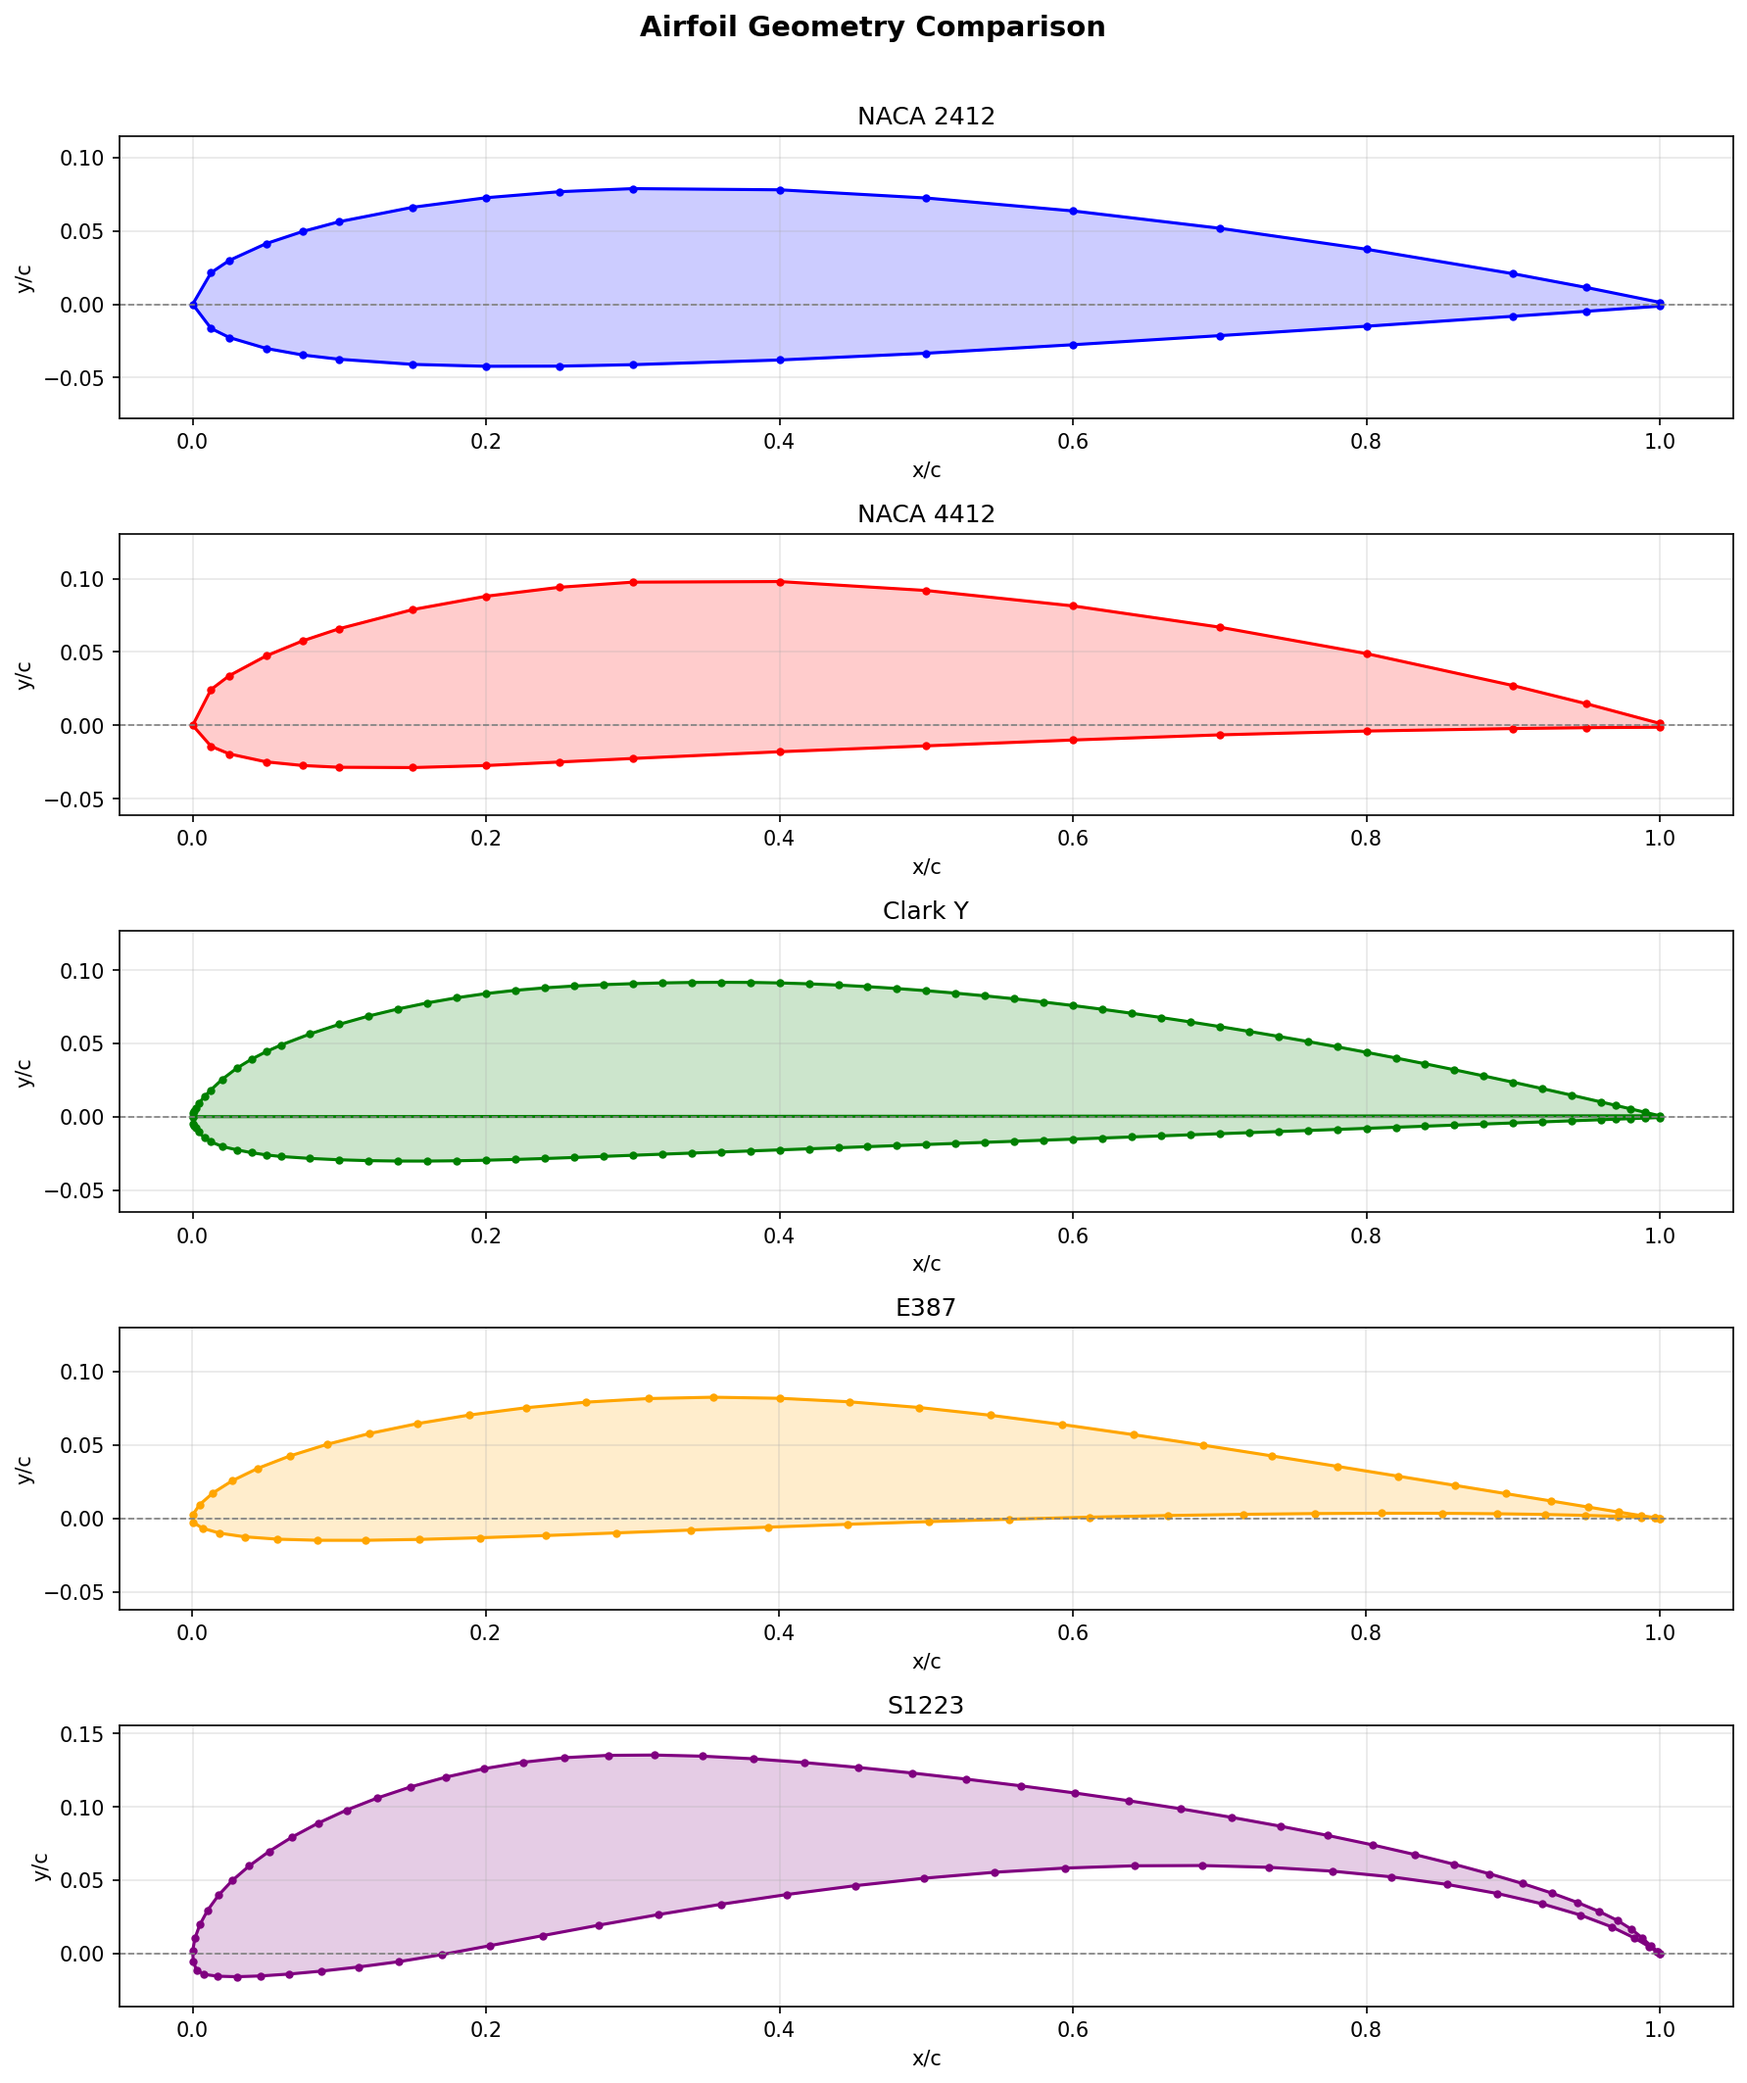
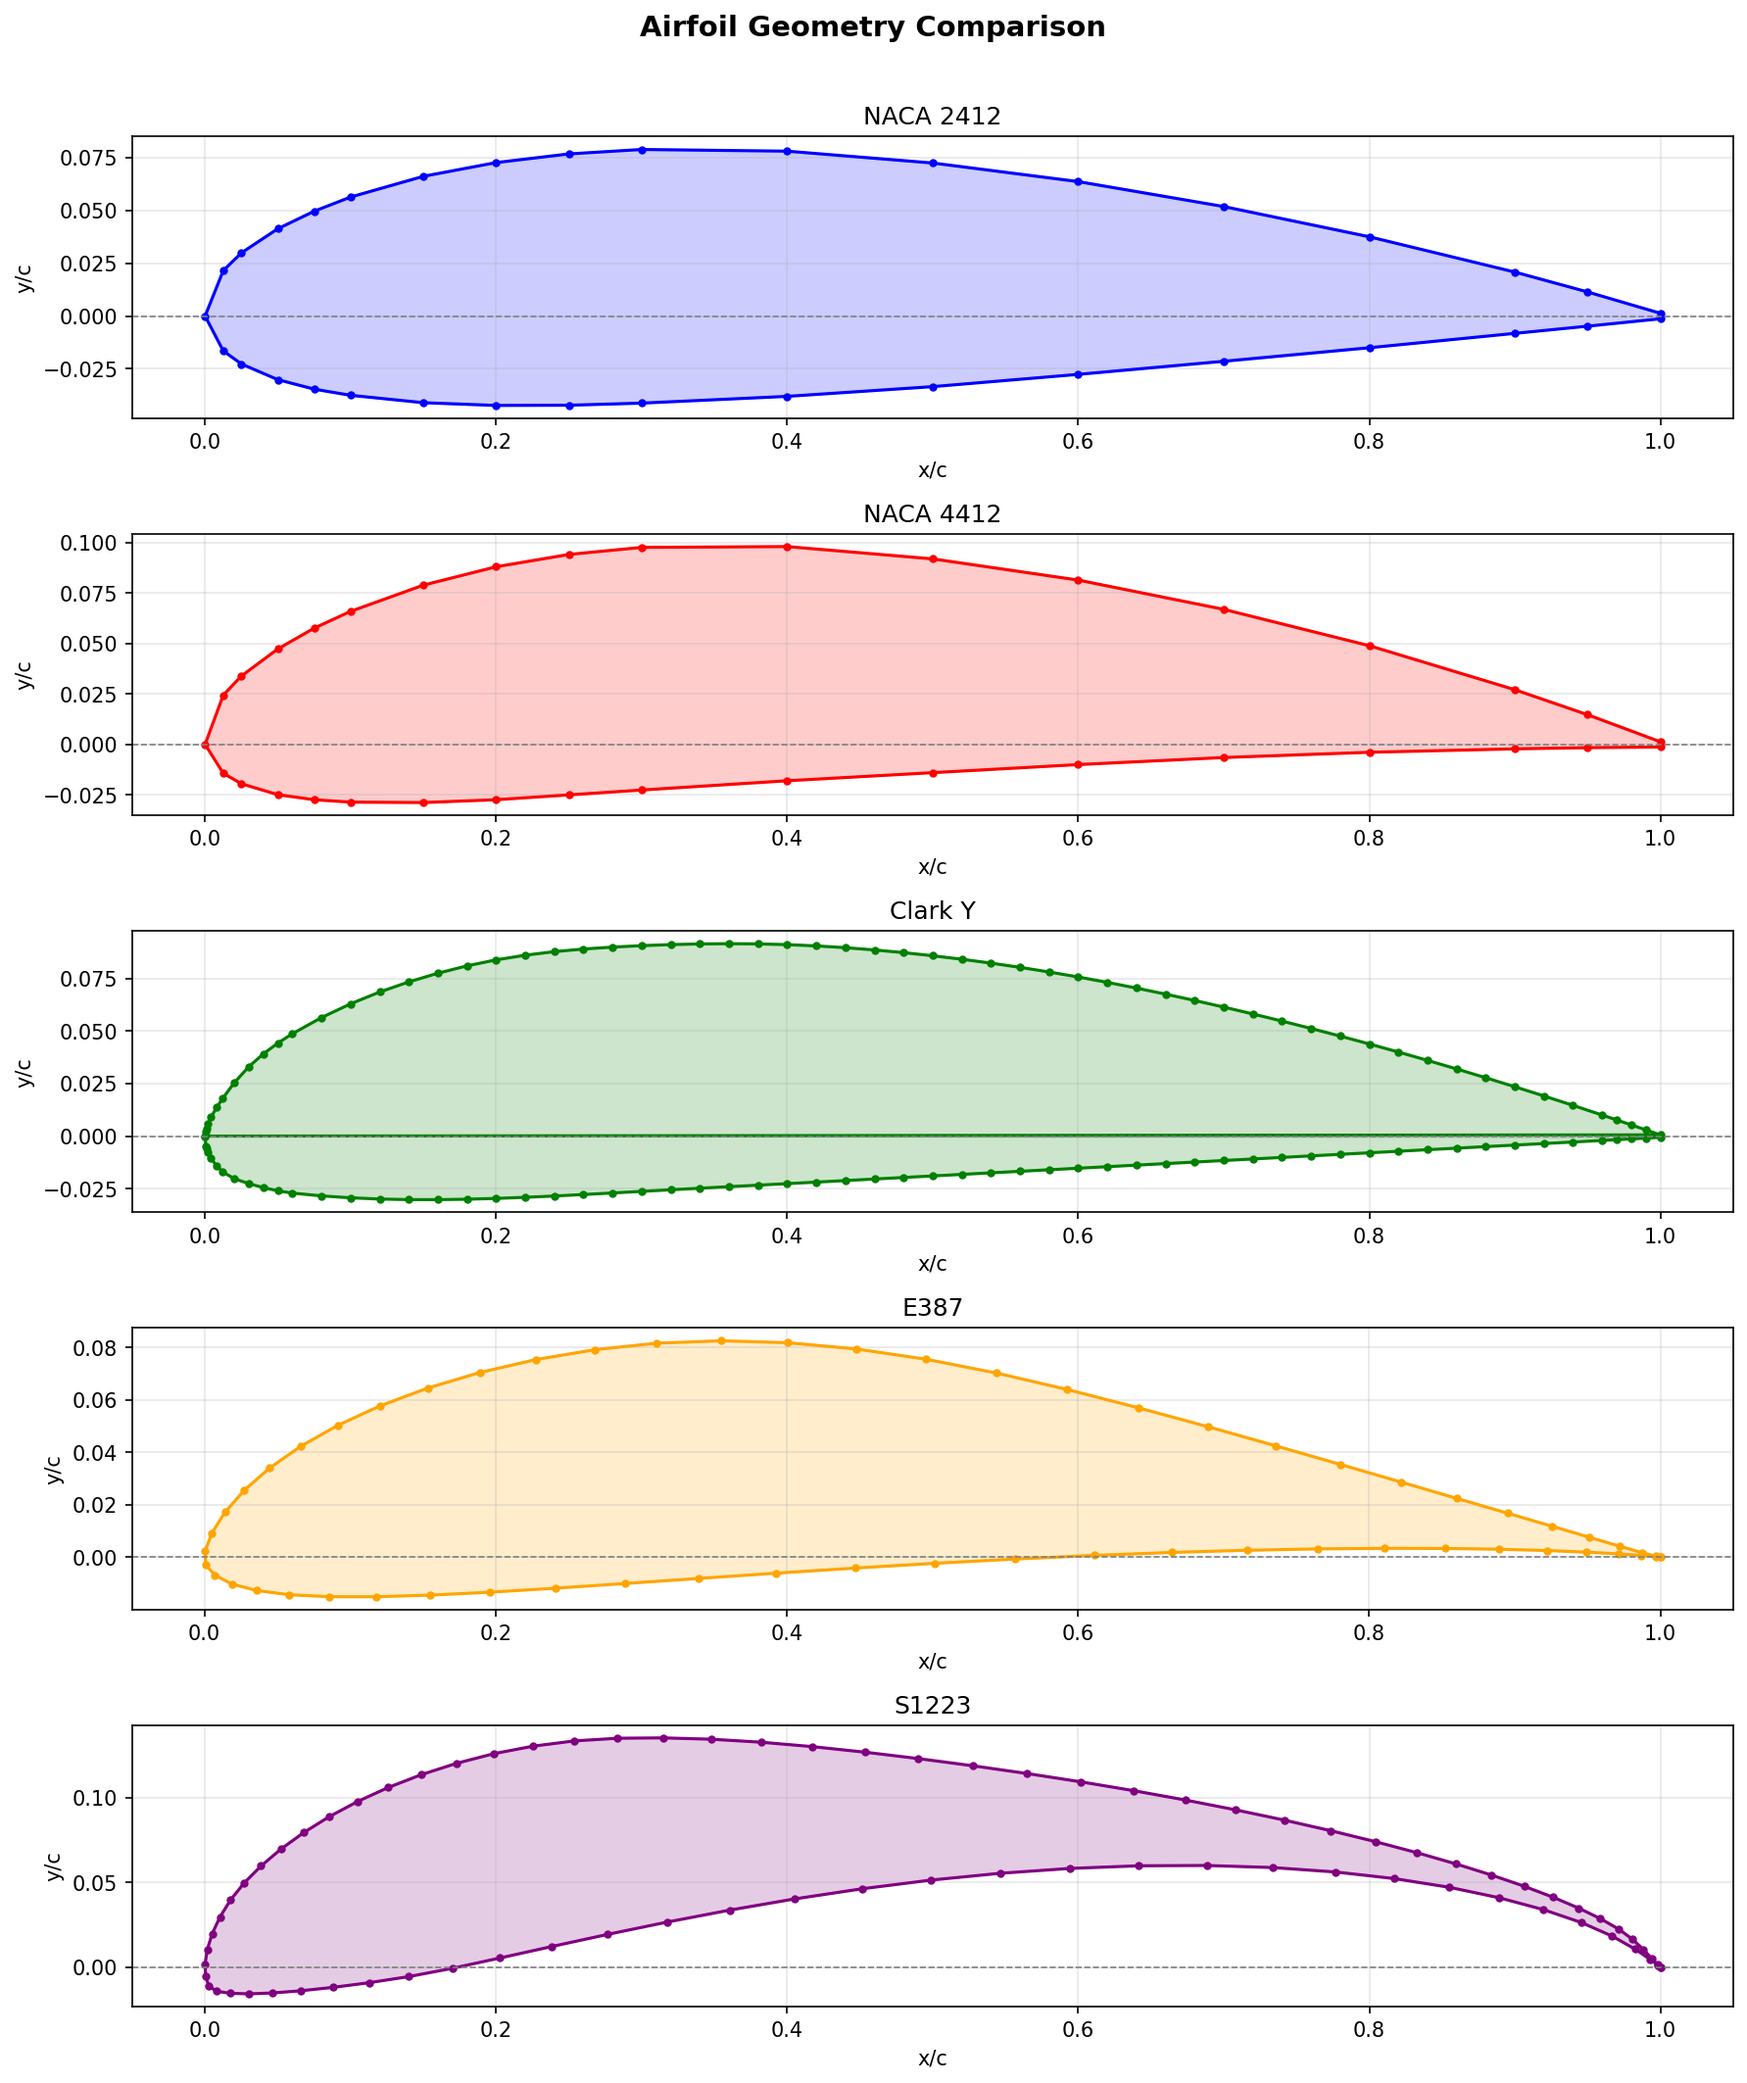
Add research notes — axis scaling importance for airfoil geometric comparison

diff --git a/plot_airfoil.py b/plot_airfoil.py
@@ -51,7 +51,7 @@ for ax, (name, filepath), color in zip(axes, airfoils.items(), colors):
     ax.set_title(f'{name}')
     ax.set_xlabel('x/c')
     ax.set_ylabel('y/c')
-    ax.axis('equal')
+    ## ax.axis('equal')
     ax.grid(True, alpha=0.3)
 
 plt.suptitle('Airfoil Geometry Comparison', fontsize=14, fontweight='bold', y=1.01)
